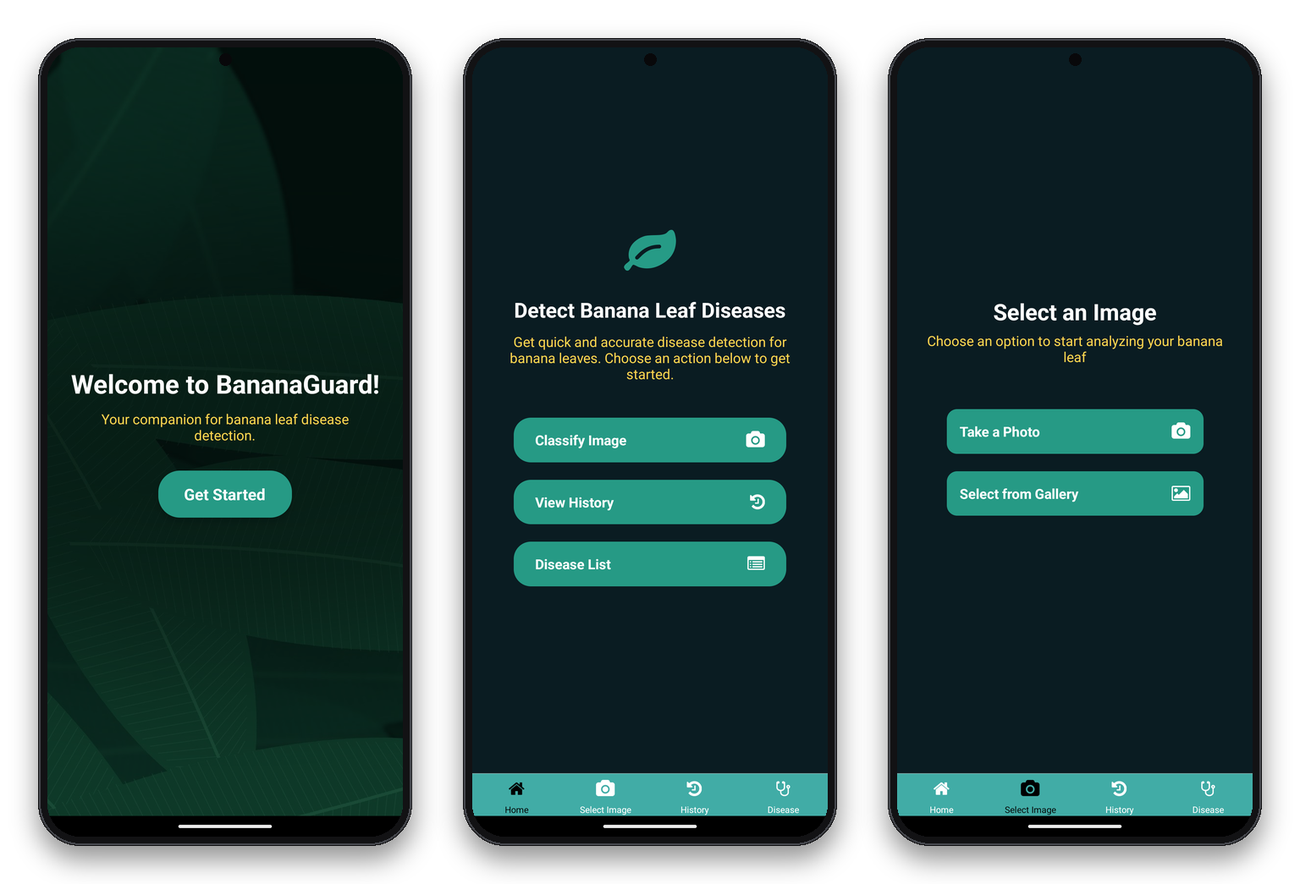
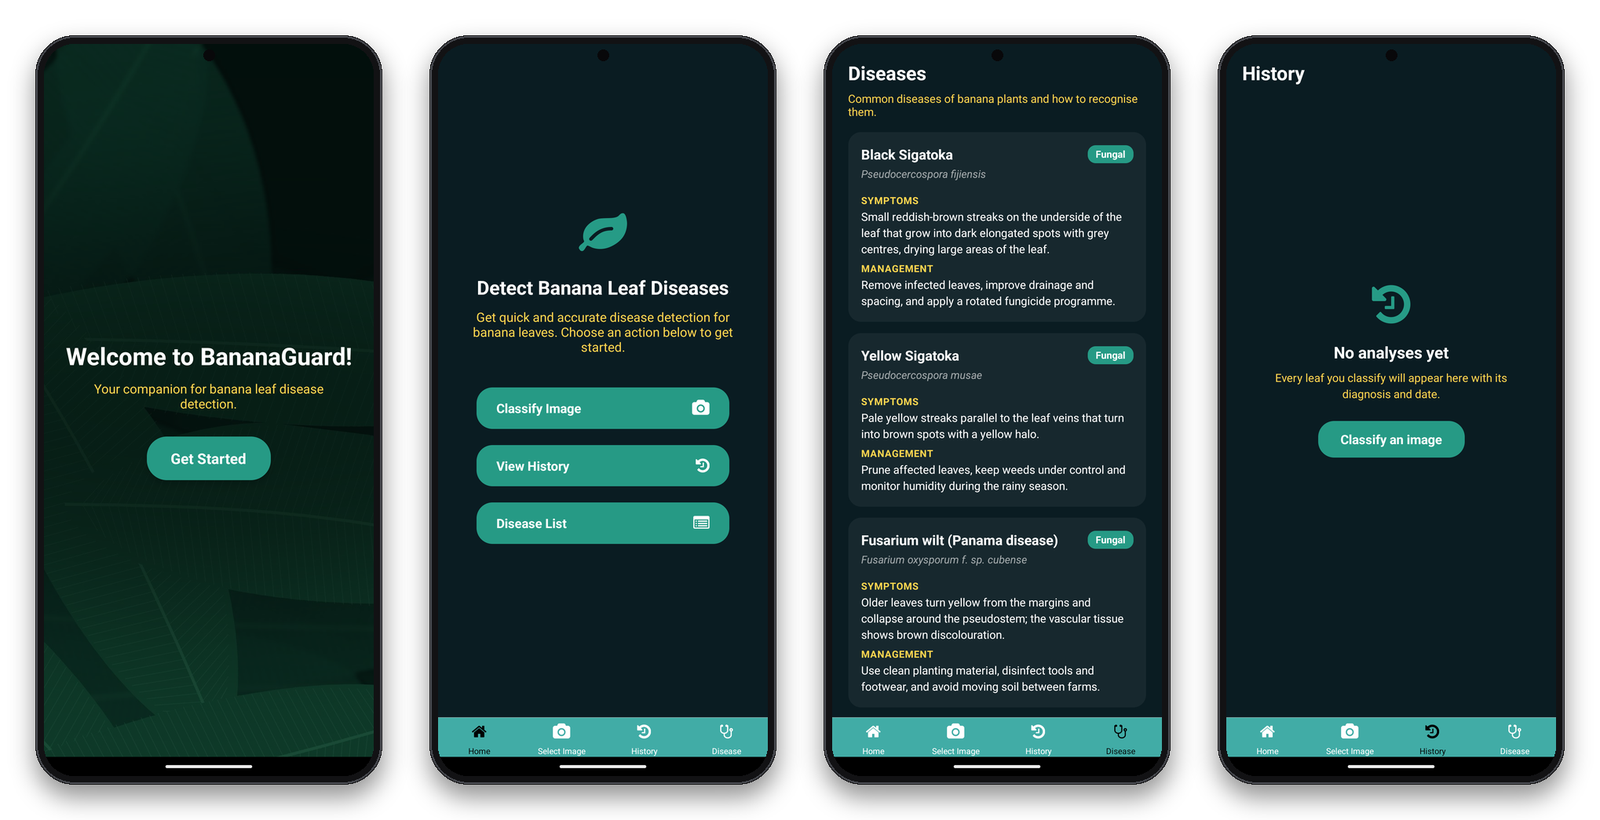
feat: disease reference list, history empty state and home actions
Add a reference list of common banana diseases with pathogen, symptoms and management, an empty state for the history tab, and wire the home buttons to their tabs. Also fix theme colours with stray spaces and two lint errors.

diff --git a/src/screens/DiseasesScreen.tsx b/src/screens/DiseasesScreen.tsx
@@ -1,12 +1,42 @@
 import React from 'react';
 import styled from 'styled-components/native';
 import {ScrollView} from 'react-native';
+import {Disease, DiseaseType, diseases} from '../data/diseases';
+
+const typeColors: Record<DiseaseType, string> = {
+  Fungal: '#269b86',
+  Bacterial: '#d9822b',
+  Viral: '#8e6bd8',
+};
+
+const DiseaseCard: React.FC<{disease: Disease}> = ({disease}) => (
+  <Card>
+    <CardHeader>
+      <Name>{disease.name}</Name>
+      <Badge style={{backgroundColor: typeColors[disease.type]}}>
+        <BadgeText>{disease.type}</BadgeText>
+      </Badge>
+    </CardHeader>
+    <Pathogen>{disease.pathogen}</Pathogen>
+    <Label>Symptoms</Label>
+    <Body>{disease.symptoms}</Body>
+    <Label>Management</Label>
+    <Body>{disease.management}</Body>
+  </Card>
+);
 
 const DiseasesScreen: React.FC = () => {
   return (
     <Container>
       <Title>Diseases</Title>
-      <ScrollView></ScrollView>
+      <Subtitle>
+        Common diseases of banana plants and how to recognise them.
+      </Subtitle>
+      <ScrollView showsVerticalScrollIndicator={false}>
+        {diseases.map(disease => (
+          <DiseaseCard key={disease.name} disease={disease} />
+        ))}
+      </ScrollView>
     </Container>
   );
 };
@@ -14,14 +44,74 @@ const DiseasesScreen: React.FC = () => {
 const Container = styled.View`
   flex: 1;
   background-color: ${({theme}) => theme.colors.background};
-  padding: 20px;
+  padding: 20px 20px 0;
 `;
 
 const Title = styled.Text`
   font-size: 24px;
   font-weight: bold;
   color: ${({theme}) => theme.colors.text};
-  margin-bottom: 15px;
+`;
+
+const Subtitle = styled.Text`
+  font-size: 14px;
+  color: ${({theme}) => theme.colors.secondary};
+  margin: 6px 0 16px;
+`;
+
+const Card = styled.View`
+  background-color: rgba(255, 255, 255, 0.06);
+  border-radius: 16px;
+  padding: 16px;
+  margin-bottom: 14px;
+`;
+
+const CardHeader = styled.View`
+  flex-direction: row;
+  align-items: center;
+  justify-content: space-between;
+`;
+
+const Name = styled.Text`
+  flex: 1;
+  font-size: 17px;
+  font-weight: bold;
+  color: ${({theme}) => theme.colors.text};
+  margin-right: 10px;
+`;
+
+const Badge = styled.View`
+  border-radius: 10px;
+  padding: 3px 10px;
+`;
+
+const BadgeText = styled.Text`
+  color: #ffffff;
+  font-size: 12px;
+  font-weight: bold;
+`;
+
+const Pathogen = styled.Text`
+  font-style: italic;
+  font-size: 13px;
+  color: rgba(255, 255, 255, 0.6);
+  margin: 4px 0 10px;
+`;
+
+const Label = styled.Text`
+  font-size: 12px;
+  font-weight: bold;
+  letter-spacing: 0.5px;
+  text-transform: uppercase;
+  color: ${({theme}) => theme.colors.secondary};
+  margin-top: 6px;
+`;
+
+const Body = styled.Text`
+  font-size: 14px;
+  line-height: 20px;
+  color: ${({theme}) => theme.colors.text};
+  margin-top: 2px;
 `;
 
 export default DiseasesScreen;

diff --git a/src/data/diseases.ts b/src/data/diseases.ts
@@ -1,0 +1,68 @@
+export type DiseaseType = 'Fungal' | 'Bacterial' | 'Viral';
+
+export type Disease = {
+  name: string;
+  pathogen: string;
+  type: DiseaseType;
+  symptoms: string;
+  management: string;
+};
+
+/** Reference information on the main diseases that affect banana leaves and plants. */
+export const diseases: Disease[] = [
+  {
+    name: 'Black Sigatoka',
+    pathogen: 'Pseudocercospora fijiensis',
+    type: 'Fungal',
+    symptoms:
+      'Small reddish-brown streaks on the underside of the leaf that grow into dark elongated spots with grey centres, drying large areas of the leaf.',
+    management:
+      'Remove infected leaves, improve drainage and spacing, and apply a rotated fungicide programme.',
+  },
+  {
+    name: 'Yellow Sigatoka',
+    pathogen: 'Pseudocercospora musae',
+    type: 'Fungal',
+    symptoms:
+      'Pale yellow streaks parallel to the leaf veins that turn into brown spots with a yellow halo.',
+    management:
+      'Prune affected leaves, keep weeds under control and monitor humidity during the rainy season.',
+  },
+  {
+    name: 'Fusarium wilt (Panama disease)',
+    pathogen: 'Fusarium oxysporum f. sp. cubense',
+    type: 'Fungal',
+    symptoms:
+      'Older leaves turn yellow from the margins and collapse around the pseudostem; the vascular tissue shows brown discolouration.',
+    management:
+      'Use clean planting material, disinfect tools and footwear, and avoid moving soil between farms.',
+  },
+  {
+    name: 'Cordana leaf spot',
+    pathogen: 'Neocordana musae',
+    type: 'Fungal',
+    symptoms:
+      'Oval pale-brown spots with concentric rings and a yellow border, often along the leaf margin.',
+    management:
+      'Remove infected leaf tissue and reduce prolonged leaf wetness.',
+  },
+  {
+    name: 'Bacterial wilt (Moko)',
+    pathogen: 'Ralstonia solanacearum',
+    type: 'Bacterial',
+    symptoms:
+      'Young leaves wilt and yellow, fruit rots internally and cut stems release a bacterial ooze.',
+    management:
+      'Eradicate infected plants, disinfect tools between plants and remove the male bud after fruit set.',
+  },
+  {
+    name: 'Banana bunchy top',
+    pathogen:
+      'Banana bunchy top virus, spread by the aphid Pentalonia nigronervosa',
+    type: 'Viral',
+    symptoms:
+      'Narrow, upright leaves bunched at the top of the plant with dark green dot-dash streaks along the veins.',
+    management:
+      'Destroy infected plants, control aphids and plant certified virus-free suckers.',
+  },
+];

diff --git a/src/screens/HistoryScreen.tsx b/src/screens/HistoryScreen.tsx
@@ -1,28 +1,74 @@
 import React from 'react';
 import styled from 'styled-components/native';
-import { ScrollView } from 'react-native';
+import Icon from 'react-native-vector-icons/FontAwesome';
+import {useNavigation} from '@react-navigation/native';
+import {useTheme} from '../contexts/ThemeContext';
 
 const HistoryScreen: React.FC = () => {
+  const {theme} = useTheme();
+  const navigation = useNavigation();
+
   return (
     <Container>
       <Title>History</Title>
-      <ScrollView>
-      </ScrollView>
+      <Empty>
+        <Icon name="history" size={56} color={theme.colors.primary} />
+        <EmptyTitle>No analyses yet</EmptyTitle>
+        <EmptyText>
+          Every leaf you classify will appear here with its diagnosis and date.
+        </EmptyText>
+        <Button onPress={() => navigation.navigate('ImageSelection' as never)}>
+          <ButtonText>Classify an image</ButtonText>
+        </Button>
+      </Empty>
     </Container>
   );
 };
 
 const Container = styled.View`
   flex: 1;
-  background-color: ${({ theme }) => theme.colors.background};
+  background-color: ${({theme}) => theme.colors.background};
   padding: 20px;
 `;
 
 const Title = styled.Text`
   font-size: 24px;
   font-weight: bold;
-  color: ${({ theme }) => theme.colors.text};
-  margin-bottom: 15px;
+  color: ${({theme}) => theme.colors.text};
+`;
+
+const Empty = styled.View`
+  flex: 1;
+  align-items: center;
+  justify-content: center;
+  padding: 0 24px 60px;
+`;
+
+const EmptyTitle = styled.Text`
+  font-size: 20px;
+  font-weight: bold;
+  color: ${({theme}) => theme.colors.text};
+  margin-top: 18px;
+`;
+
+const EmptyText = styled.Text`
+  font-size: 14px;
+  line-height: 20px;
+  text-align: center;
+  color: ${({theme}) => theme.colors.secondary};
+  margin: 8px 0 24px;
+`;
+
+const Button = styled.TouchableOpacity`
+  background-color: ${({theme}) => theme.colors.primary};
+  border-radius: 20px;
+  padding: 12px 28px;
+`;
+
+const ButtonText = styled.Text`
+  color: #ffffff;
+  font-size: 16px;
+  font-weight: bold;
 `;
 
 export default HistoryScreen;

diff --git a/src/contexts/ThemeContext.tsx b/src/contexts/ThemeContext.tsx
@@ -4,6 +4,7 @@ import React, {
   useState,
   ReactNode,
   useMemo,
+  useCallback,
 } from 'react';
 import {
   ThemeProvider as StyledThemeProvider,
@@ -23,9 +24,9 @@ const lightTheme: DefaultTheme = {
 
 const darkTheme: DefaultTheme = {
   colors: {
-    background: ' #0a1c22 ',
+    background: '#0a1c22',
     text: '#FFFFFF',
-    primary: '#269b86 ',
+    primary: '#269b86',
     secondary: '#FFD54F',
     tabBarActiveTintColor: '#000',
     tabBarInactiveTintColor: 'white',
@@ -47,12 +48,15 @@ export const useTheme = () => useContext(ThemeContext);
 export const ThemeProvider: React.FC<{children: ReactNode}> = ({children}) => {
   const [isDarkMode, setIsDarkMode] = useState(false);
 
-  const toggleTheme = () => setIsDarkMode(!isDarkMode);
+  const toggleTheme = useCallback(
+    () => setIsDarkMode(!isDarkMode),
+    [isDarkMode],
+  );
 
   // const theme = isDarkMode ? darkTheme : lightTheme;
   const theme = darkTheme ? darkTheme : lightTheme;
 
-  const value = useMemo(() => ({theme, toggleTheme}), [theme]);
+  const value = useMemo(() => ({theme, toggleTheme}), [theme, toggleTheme]);
 
   return (
     <ThemeContext.Provider value={value}>

diff --git a/src/navigation/MainNavigator.tsx b/src/navigation/MainNavigator.tsx
@@ -37,7 +37,7 @@ const MainNavigator = () => {
   return (
     <Tab.Navigator
       screenOptions={({route}) => ({
-        tabBarIcon: ({color, size}) => getTabBarIcon(route.name, color, 20),
+        tabBarIcon: ({color}) => getTabBarIcon(route.name, color, 20),
         tabBarActiveTintColor: theme.colors.tabBarActiveTintColor,
         tabBarInactiveTintColor: theme.colors.tabBarInactiveTintColor,
         headerShown: false,
@@ -49,11 +49,11 @@ const MainNavigator = () => {
         },
       })}>
       <Tab.Screen name="Home">
-        {() => (
+        {({navigation}) => (
           <HomeScreen
-            onClassifyImage={() => {}}
-            onViewDiseases={() => {}}
-            onViewHistory={() => {}}
+            onClassifyImage={() => navigation.navigate('ImageSelection')}
+            onViewDiseases={() => navigation.navigate('Disease')}
+            onViewHistory={() => navigation.navigate('History')}
           />
         )}
       </Tab.Screen>

diff --git a/README.md b/README.md
@@ -9,7 +9,7 @@ Mobile app for detecting diseases in banana leaves from a photo, built as part o
 ![TypeScript](https://img.shields.io/badge/TypeScript-3178C6?logo=typescript&logoColor=white)
 ![Jest](https://img.shields.io/badge/Jest-C21325?logo=jest&logoColor=white)
 
-<p align="center"><img src="docs/screenshots.png" alt="Welcome, home and image selection screens" width="820"></p>
+<p align="center"><img src="docs/screenshots.png" alt="Welcome, home, disease list and history screens on Android" width="900"></p>
 
 The goal is simple: a farmer takes a picture of a leaf and gets a fast, offline-friendly
 diagnosis, plus a history of past checks and a reference list of common diseases.
@@ -20,13 +20,13 @@ This repository contains the **mobile client (UI prototype)** of the project:
 
 | Area | Status |
 |---|---|
-| Welcome and home screens | ✅ Done |
+| Welcome and home screens, with quick actions to each section | ✅ Done |
 | Bottom-tab navigation | ✅ Done |
-| Light / dark theme system | ✅ Done |
+| Typed theme system (dark palette) | ✅ Done |
 | Take a photo / pick from gallery | 🚧 UI ready, capture not wired yet |
 | CNN inference on the device | 🚧 CNN developed in the thesis, not included in this repo |
-| Diagnosis history | 🚧 Placeholder screen |
-| Disease reference list | 🚧 Placeholder screen |
+| Disease reference list (symptoms, pathogen and management) | ✅ Done |
+| Diagnosis history | 🚧 Empty state ready; filled once inference is connected |
 
 ## Tech stack
 
